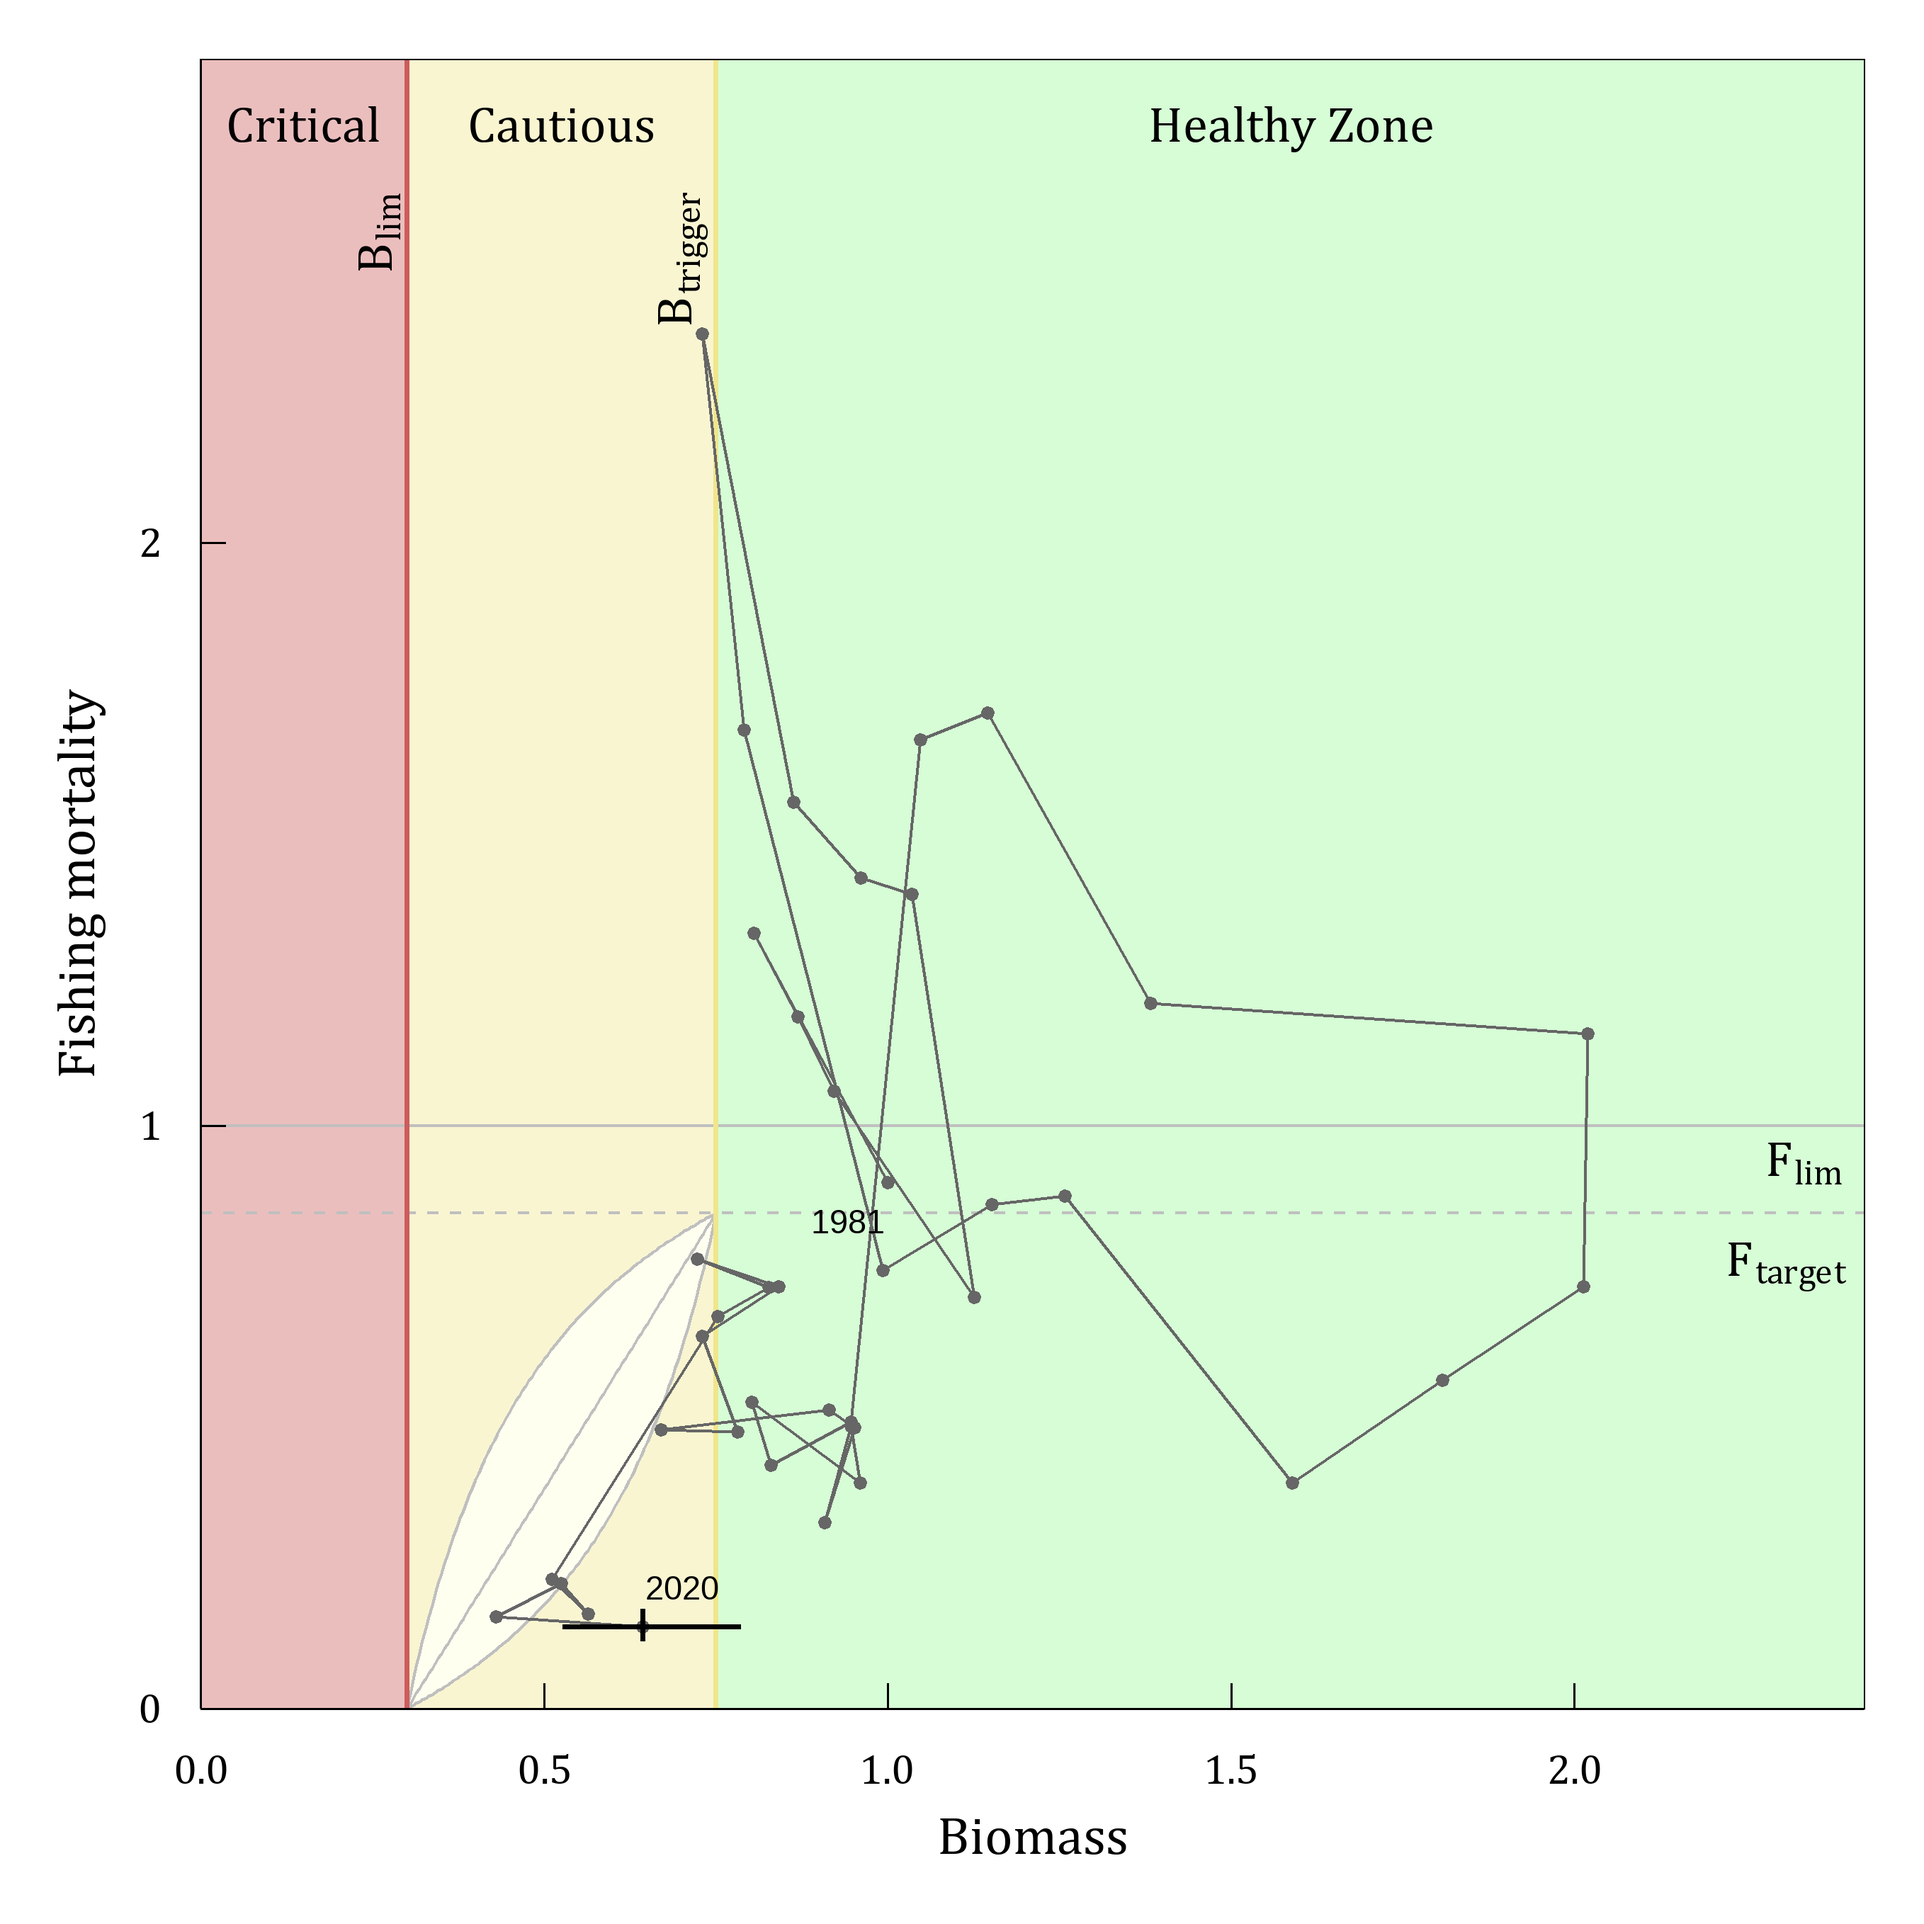
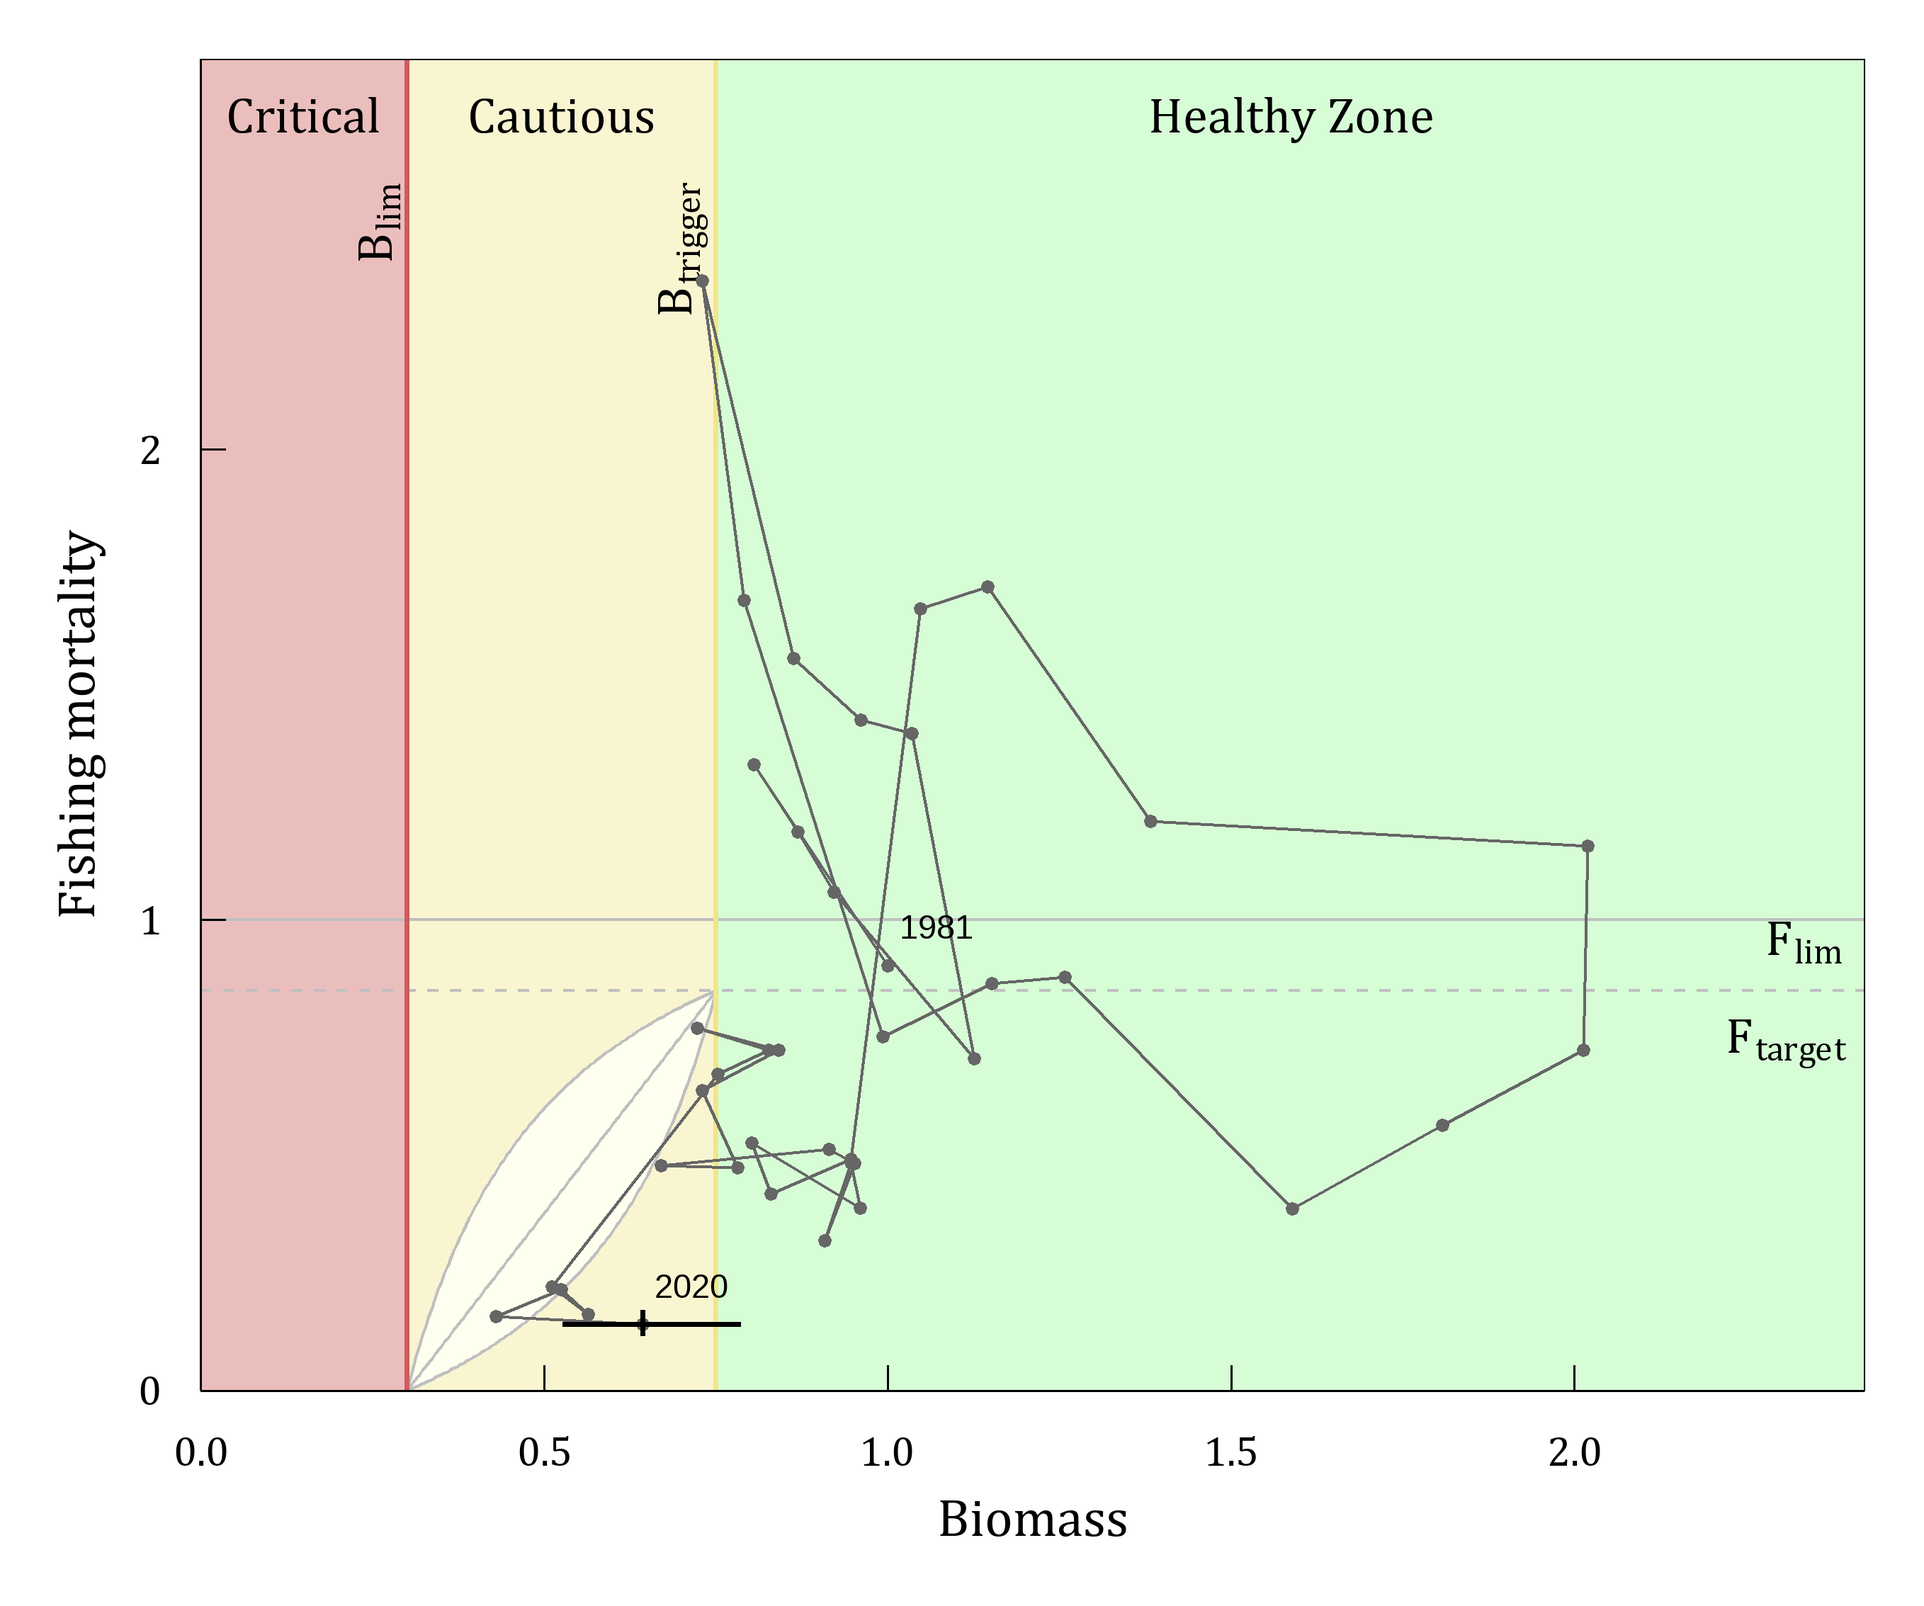
Add references and reduce height of PA figure

diff --git a/README.md b/README.md
@@ -231,6 +231,11 @@ Scientific Council, 28 May -12 June 2020, By correspondence*</span>.
 *NAFO SCS Doc*, *20/14*, Pages 221–223.
 <https://www.nafo.int/Portals/0/PDFs/sc/2020/scs20-14.pdf>
 
+Nogueira, A., and Estevez-Barcia, D. (2024). Results for greenland
+halibut survey in NAFO divisions 1C–1D for the period 1997–2017, 2019
+and 2022–2023. *NAFO SCR Doc*, *24/013*.
+<https://www.nafo.int/Portals/0/PDFs/sc/2024/scr24-013.pdf>
+
 Perreault, A. M. J., Wheeland, L., and Cadigan, N. G. (2021).
 <span class="nocase">Updated state-space model for American plaice
 (*Hippoglossoides platessoides*) in Div. 3LNO</span>. *NAFO SCR Doc*,
@@ -293,6 +298,12 @@ Regular, P. M., Rogers, B., and Morgan, M. J. (2021).
 in NAFO Subarea 2 and Divisions 3KLMNO: stock trends based on annual
 Canadian research vessel survey results</span>. *NAFO SCR Doc*,
 *21/026*. <https://www.nafo.int/Portals/0/PDFs/sc/2021/scr21-026.pdf>
+
+Regular, P.  M., Varkey, D., Gullage, N., and Kumar, R. (2024). Review
+and update of the state-space management strategy evaluation for
+greenland halibut in NAFO subarea 2 and divisions 3KLMNO with mseSurv.
+*NAFO SCR Doc*, *24/002REV2*.
+<https://www.nafo.int/Portals/0/PDFs/sc/2024/scr24-002REV2.pdf>
 
 Rogers, B., Perreault, A., Simpson, M., and Varkey, D. (2022).
 <span class="nocase">Assessment of 3LN redfish using the ASPIC model in
